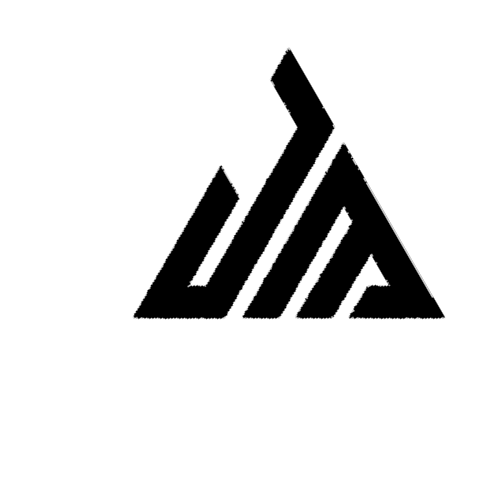
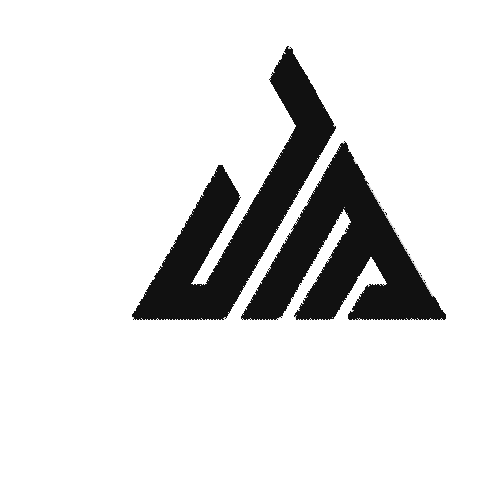
:art: Update Services section
added icons

diff --git a/index.html b/index.html
@@ -144,16 +144,24 @@
             I value simple content structure, clean design patterns, and
             thoughtful interactions.
           </p>
-          <!-- <h4>Design Skills</h4>
-          <p>UX, UI, Web, Mobile, Apps, Logos</p>
-
-          <h4>Design Tools</h4>
-          <ul>
-            <li>Figma</li>
-            <li>Sketch</li>
-            <li>Adobe XD</li>
-            <li>Zeplin</li>
-          </ul> -->
+          <ul class="service-icons">
+            <li>
+              <i class="fab fa-figma"></i>
+              <p>Figma</p>
+            </li>
+            <li>
+              <i class="fab fa-sketch"></i>
+              <p>Sketch</p>
+            </li>
+            <li>
+              <i class="fab fa-adobe"></i>
+              <p>Adobe XD</p>
+            </li>
+            <li>
+              <i class="fab fa-sass"></i>
+              <p>SASS</p>
+            </li>
+          </ul>
         </div>
         <!-- / service -->
 
@@ -163,16 +171,24 @@
             I like to code things from scratch, and enjoy bringing ideas to life
             in the browser.
           </p>
-          <!-- <h4>Languages & Frameworks</h4>
-          <p>JavaScript, React, Python</p>
-
-          <h4>Development Tools</h4>
-          <ul>
-            <li>VS Code</li>
-            <li>Github</li>
-            <li>Terminal</li>
-            <li>Atom</li>
-          </ul> -->
+          <ul class="service-icons">
+            <li>
+              <i class="fab fa-js"></i>
+              <p>JavaScript</p>
+            </li>
+            <li>
+              <i class="fab fa-react"></i>
+              <p>React</p>
+            </li>
+            <li>
+              <i class="fab fa-python"></i>
+              <p>Python</p>
+            </li>
+            <li>
+              <i class="fas fa-database"></i>
+              <p>SQL</p>
+            </li>
+          </ul>
         </div>
         <!-- / service -->
 
@@ -182,16 +198,29 @@
             I genuinely care about people, and love helping fellow developers
             work on their craft.
           </p>
-          <!-- <h4>Communication Skills</h4>
-          <p>UI/UX, Product design, Freelancing</p>
-
-          <h4>Experience</h4>
-          <ul>
-            <li>Management</li>
-            <li>Bilingual</li>
-            <li>Customer Service</li>
-            <li>Deadlines</li>
-          </ul> -->
+          <ul class="service-icons">
+            <li>
+              <i class="fab fa-trello"></i>
+              <p>Trello</p>
+            </li>
+            <li>
+              <img
+                src="/img/notion.png"
+                width="23"
+                height="25"
+                alt="notion img"
+              />
+              <p>Notion</p>
+            </li>
+            <li>
+              <i class="fas fa-sync"></i>
+              <p>Agile</p>
+            </li>
+            <li>
+              <i class="fab fa-slack"></i>
+              <p>Slack</p>
+            </li>
+          </ul>
         </div>
         <!-- / service -->
       </div>

diff --git a/css/style.css b/css/style.css
@@ -119,6 +119,7 @@ h3 {
 }
 
 .section__title {
+  margin-top: 1rem;
   margin-bottom: 0.25em;
 }
 
@@ -158,7 +159,7 @@ header {
 }
 
 .logo {
-  max-width: 100px;
+  max-width: 75px;
 }
 
 .nav {
@@ -262,6 +263,7 @@ header {
 /*  Intro section  */
 
 .intro {
+  /* margin-top: 1rem; */
   position: relative;
 }
 
@@ -286,13 +288,19 @@ header {
   }
 
   .intro__img {
+    /* margin-top: 1rem; */
     grid-area: img;
     min-width: 250px;
     position: relative;
     /* z-index: 2; */
   }
 
+  .section__title--intro {
+    /* margin-top: 1rem; */
+  }
+
   .section__subtitle--intro {
+    /* margin-top: 1rem; */
     align-self: start;
     grid-column: -1 / 1;
     grid-row: 2;
@@ -336,11 +344,40 @@ header {
 }
 
 .service {
+  /* outline: 1px solid blue; */
   max-width: 500px;
   margin: 0 auto;
 }
 
+.service-icons {
+  /* outline: 1px solid green; */
+  padding: 0;
+  display: flex;
+  justify-content: center;
+}
+
+.service-icons li i {
+  /* outline: 1px solid orange; */
+}
+
+.service-icons li p {
+  margin: 0;
+  /* outline: 1px solid yellow; */
+}
+
+.service-icons li {
+  margin-right: 1rem;
+  /* outline: 1px solid red; */
+}
+.service-icons li:last-of-type {
+  margin: 0;
+  /* outline: 1px solid red; */
+}
+
 @media (min-width: 800px) {
+  .logo {
+    max-width: 6rem;
+  }
   .services {
     display: flex;
     max-width: 1000px;
